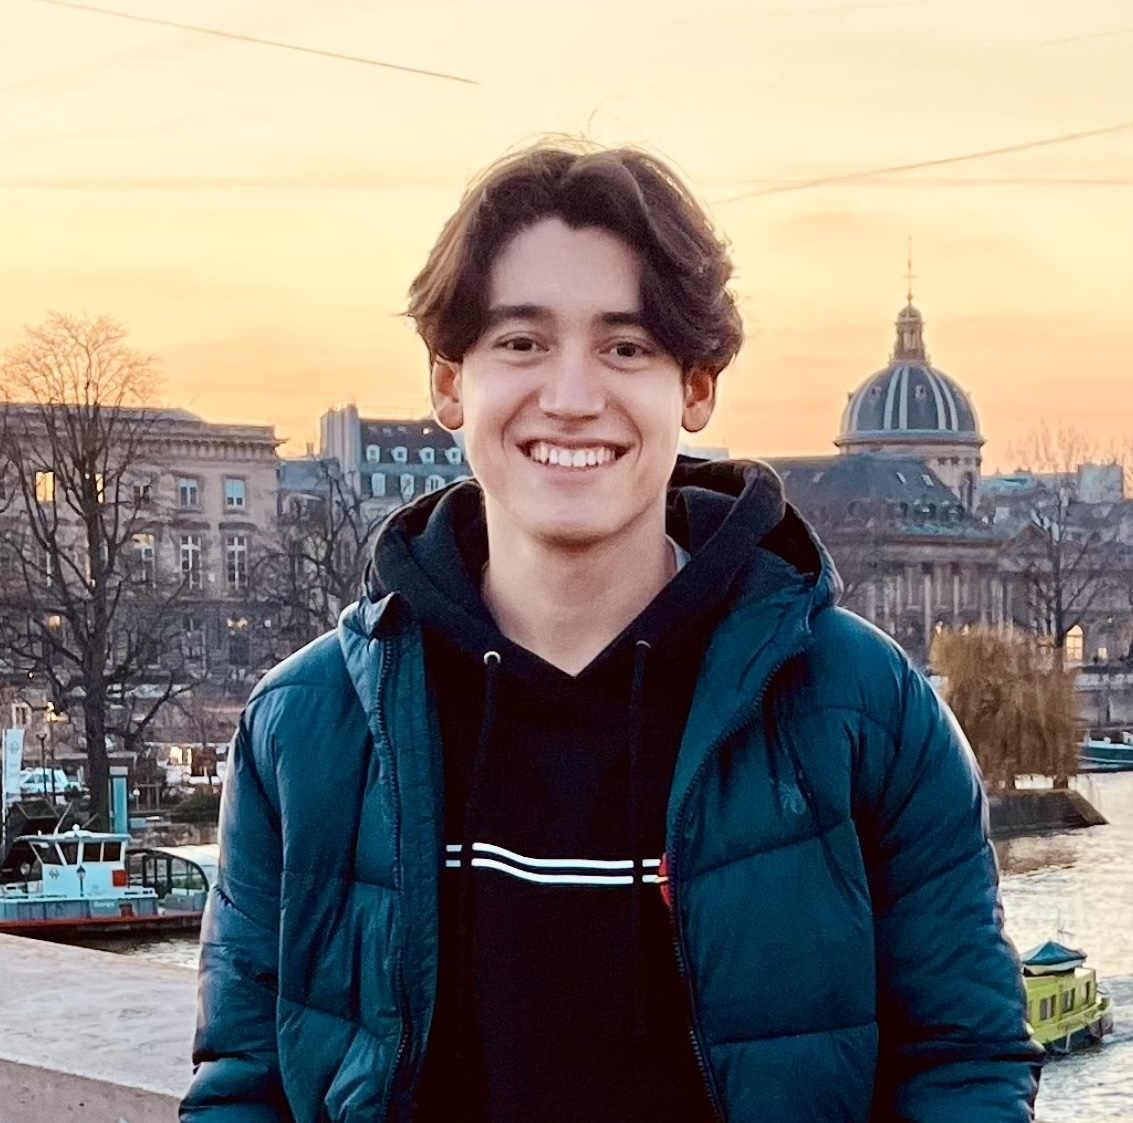
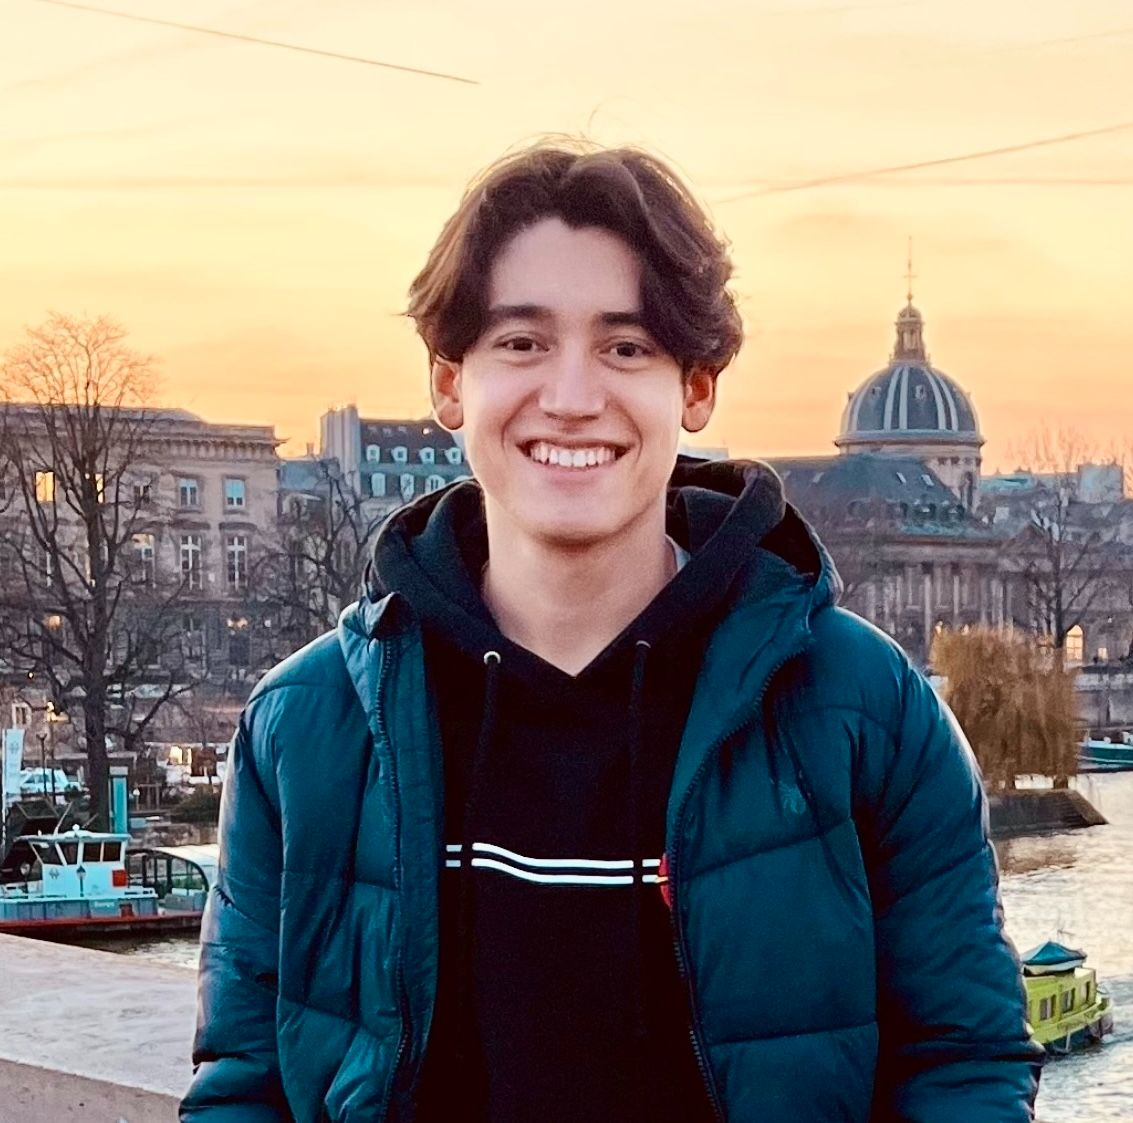
converting images to jpeg and compressing them

diff --git a/public/media/portfolioData.ts b/public/media/portfolioData.ts
@@ -24,7 +24,7 @@ export const projects: Project[] = [
     name: "Fight Fighters",
     category: ["game", "featured"],
     media: "/media/videos/fightfighters.mp4",
-    logo: "/media/logos/fightfighters_logo.png",
+    logo: "/media/logos/fightfighters_logo.jpg",
     url: "https://nickcorfmat.github.io/FightFighters/",
     github: "https://github.com/NickCorfmat/FightFighters",
     shortDescription: "2P fighting game created with Phaser 3.",
@@ -148,7 +148,7 @@ export const projects: Project[] = [
   // {
   //   name: "Public Key Cryptography",
   //   category: ["program"],
-  //   media: "/media/images/publickeycryptography.png",
+  //   media: "/media/images/publickeycryptography.jpg",
   //   github: "https://github.com/NickCorfmat/Public-Key-Cryptography",
   //   shortDescription: "Public-key encryption tool in C using GMP.",
   //   description: "Implemented a public-key encryption program in C on an Ubuntu VM to securely encrypt and decrypt text files. Utilized GNU Multiple Precision Arithmetic Library (GMP) for the generation of long, secure private keys.",
@@ -158,7 +158,7 @@ export const projects: Project[] = [
   // {
   //   name: "LZ Compression",
   //   category: ["program"],
-  //   media: "/media/images/lzcompression.png",
+  //   media: "/media/images/lzcompression.jpg",
   //   github: "https://github.com/NickCorfmat/LZ-Compression",
   //   shortDescription: "Lossless text compressor implemented in C.",
   //   description: "Implemented a lossless text compression program in C using the LZ78 algorithm, preserving all original data. Developed and tested on Ubuntu VM, utilizing vi editor and command-line tooling for efficient workflow.",
@@ -197,7 +197,7 @@ export const projects: Project[] = [
   {
     name: 'Blackpink "Lovesick Girls"',
     category: ["lego_ideas"],
-    media: "/media/images/lovesickgirls.png",
+    media: "/media/images/lovesickgirls.jpg",
     url: "https://beta.ideas.lego.com/product-ideas/2094aa81-6b2a-41e9-ac2c-ebb9969285cf",
     teamSize: 1,
     dates: "Sept 2021 - Jun 2025"
@@ -213,7 +213,7 @@ export const projects: Project[] = [
   {
     name: 'Madison Beer "Reckless"',
     category: ["lego_ideas"],
-    media: "/media/images/reckless.png",
+    media: "/media/images/reckless.jpg",
     url: "https://beta.ideas.lego.com/product-ideas/9b9e3504-07dd-4060-a139-4bf98b07f7a7",
     teamSize: 1,
     dates: "Sept 2021 - Jun 2025"
@@ -221,7 +221,7 @@ export const projects: Project[] = [
   {
     name: "The Polar Express",
     category: ["lego_ideas"],
-    media: "/media/images/polarexpress.png",
+    media: "/media/images/polarexpress.jpg",
     url: "https://beta.ideas.lego.com/product-ideas/d589b6af-92c0-44ef-90c7-38dc4a8a9b2d",
     teamSize: 2,
     dates: "Sept 2021 - Jun 2025"
@@ -229,7 +229,7 @@ export const projects: Project[] = [
   {
     name: "Interstellar",
     category: ["lego_ideas"],
-    media: "/media/images/endurance.png",
+    media: "/media/images/endurance.jpg",
     url: "https://beta.ideas.lego.com/product-ideas/b0c8ccf3-8d15-4d13-b69a-c836daeee9c3",
     teamSize: 2,
     dates: "Sept 2021 - Jun 2025"
@@ -237,7 +237,7 @@ export const projects: Project[] = [
   // {
   //   name: "Catty Corner",
   //   category: ["lego_ideas"],
-  //   media: "/media/images/cattycorner.png",
+  //   media: "/media/images/cattycorner.jpg",
   //   url: "https://youtu.be/dBilv9B1Tmg?si=rLzIXHxPjl484bRz",
   //   teamSize: 2,
   //   dates: "Sept 2021 - Jun 2025"
@@ -245,7 +245,7 @@ export const projects: Project[] = [
   {
     name: "Miffy",
     category: ["lego_ideas"],
-    media: "/media/images/miffy.png",
+    media: "/media/images/miffy.jpg",
     url: "https://beta.ideas.lego.com/product-ideas/2329f799-f3bd-4c1e-83fd-49443332ae96",
     teamSize: 1,
     dates: "Sept 2021 - Jun 2025"
